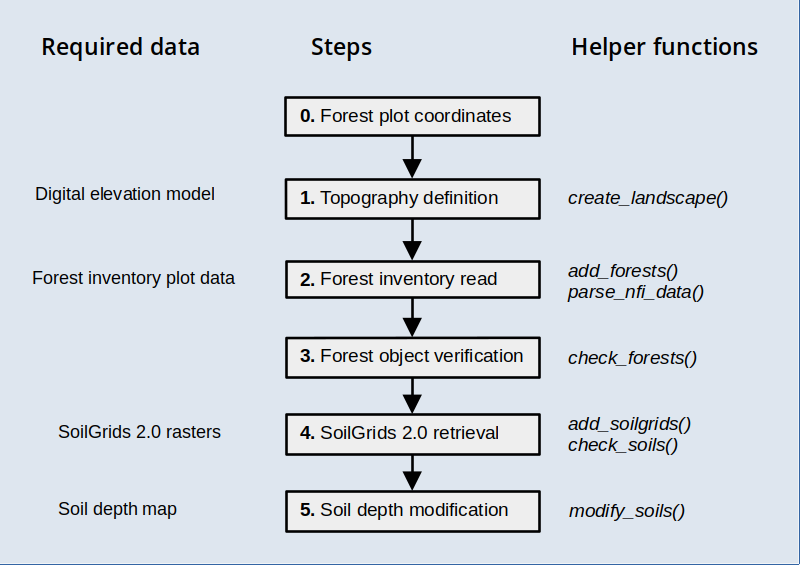
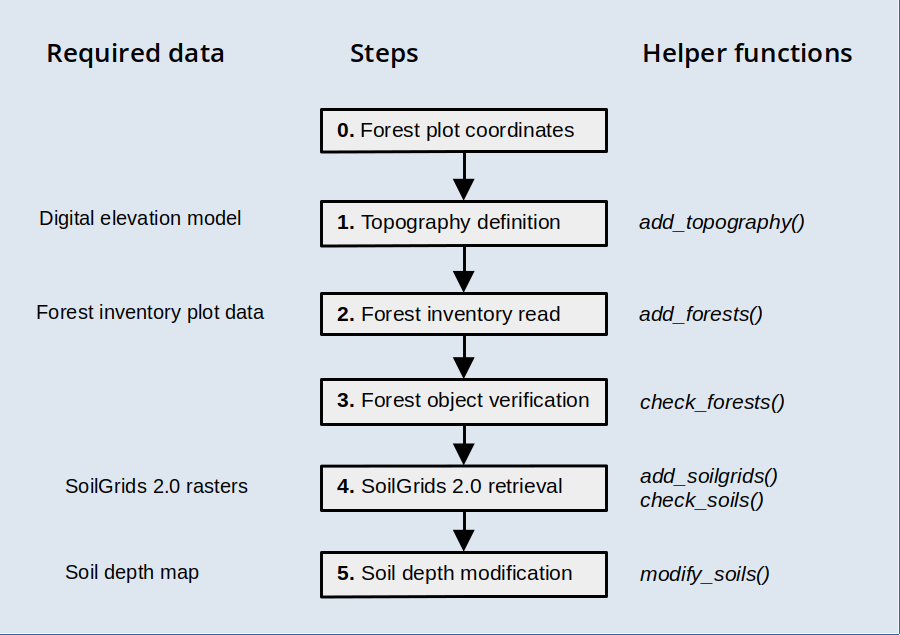
add topography/land_cover

diff --git a/NEWS.md b/NEWS.md
@@ -4,6 +4,7 @@
 
 # Version 2.4.1
 - New helper function add_forests() to parse forest plot data tables
+- New option `simplify` in function initialize_landscape()
 
 # Version 2.4.0
 - Compliance with medfate v. 4.3.0
